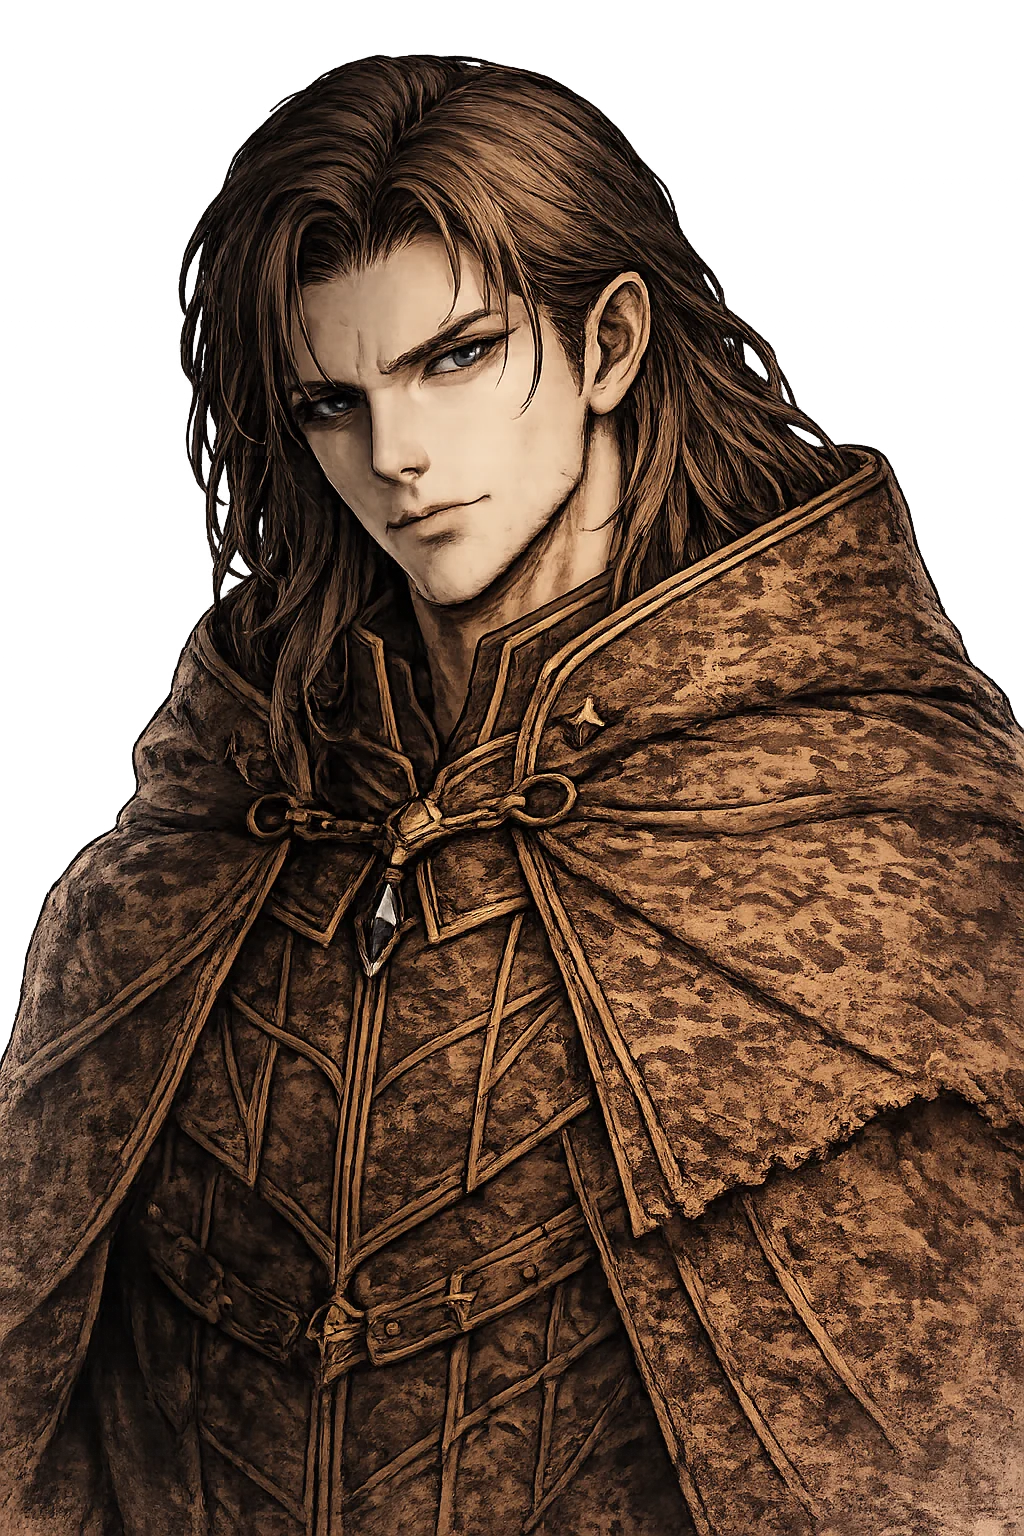
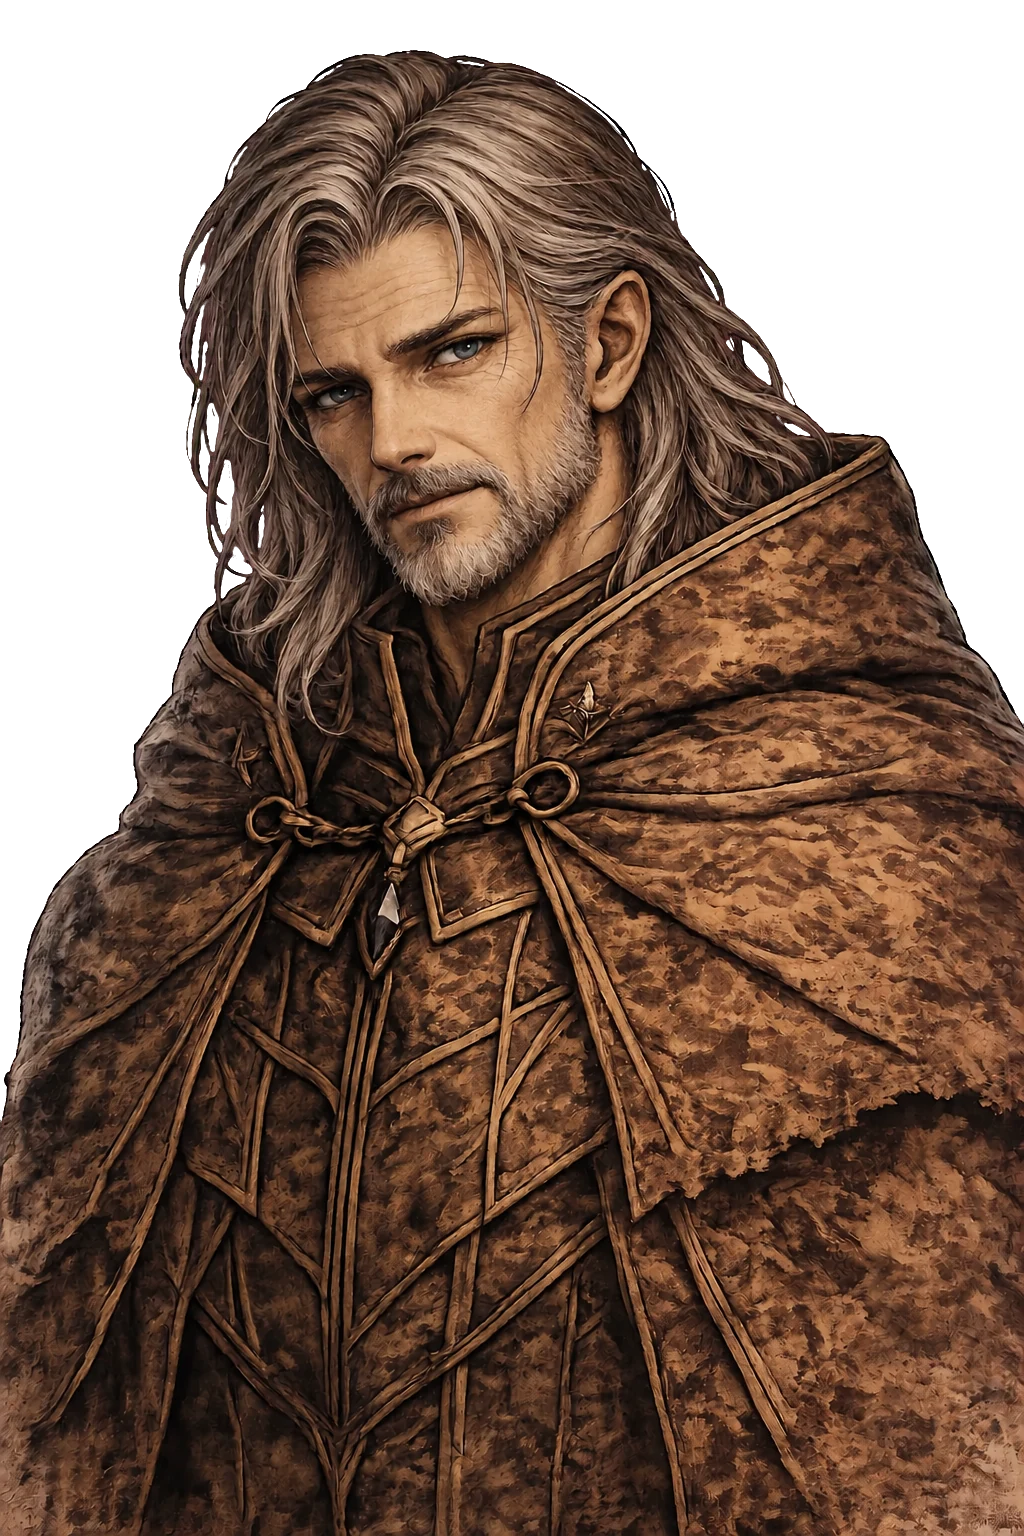
Portraits at their real ages: Archbold, Dawn, Mira
Amar's father and mother read younger than he did, and Lucian's widow
read as her own daughter's sister. King Archbold is now about sixty,
Madame Dawn about fifty, Mira about forty. Each master was aged as the
same person (gen_portrait_art.py "age" jobs), then every one of their
expressions redrawn from the aged master so the sets stay consistent.

diff --git a/src/assets/assetVersions.gen.ts b/src/assets/assetVersions.gen.ts
@@ -50,9 +50,9 @@ export const ASSET_VERSIONS: Record<string, string> = {
   "assets/portraits/amar_warm_half_smile.webp": "fb6d0c0a6a",
   "assets/portraits/amar_wounded.webp": "2b73ca8adc",
   "assets/portraits/archbold.webp": "d71b088f82",
-  "assets/portraits/archbold_neutral.webp": "3c88b994a4",
-  "assets/portraits/archbold_offering_peace.webp": "28c30dc00e",
-  "assets/portraits/archbold_righteous_fury.webp": "1bac2c9d28",
+  "assets/portraits/archbold_neutral.webp": "e90f56d13c",
+  "assets/portraits/archbold_offering_peace.webp": "210c160f81",
+  "assets/portraits/archbold_righteous_fury.webp": "463ca7eaba",
   "assets/portraits/bandit.webp": "c425b47869",
   "assets/portraits/brask.webp": "50e5ca0534",
   "assets/portraits/castor.webp": "22b0da9ffb",
@@ -63,10 +63,10 @@ export const ASSET_VERSIONS: Record<string, string> = {
   "assets/portraits/corin_torn.webp": "e0d72e65e0",
   "assets/portraits/coyne.webp": "6727bef2b2",
   "assets/portraits/crown_archer.webp": "02047372db",
-  "assets/portraits/dawn_charismatic_warm_smile.webp": "cb1ee94010",
-  "assets/portraits/dawn_ideologue_intensity.webp": "1814ede3e5",
-  "assets/portraits/dawn_mask_slipping.webp": "2fe26ea839",
-  "assets/portraits/dawn_measured_neutral.webp": "5ac0695387",
+  "assets/portraits/dawn_charismatic_warm_smile.webp": "dbdc19a6cf",
+  "assets/portraits/dawn_ideologue_intensity.webp": "f0507c468f",
+  "assets/portraits/dawn_mask_slipping.webp": "cf373f0be3",
+  "assets/portraits/dawn_measured_neutral.webp": "d14fab4fab",
   "assets/portraits/fergus.webp": "d97d517f85",
   "assets/portraits/fergus_false_sincerity.webp": "5bb0f5b0b1",
   "assets/portraits/fergus_neutral.webp": "aaad60d8a2",
@@ -106,7 +106,7 @@ export const ASSET_VERSIONS: Record<string, string> = {
   "assets/portraits/maya_soft_genuine_smile.webp": "89c26b0e01",
   "assets/portraits/maya_steel_cold_confession_face.webp": "5f6ebe9e32",
   "assets/portraits/maya_tearful.webp": "697898dbe2",
-  "assets/portraits/mira.webp": "4199f5ef31",
+  "assets/portraits/mira.webp": "9a171694b0",
   "assets/portraits/ndara.webp": "8cc8540344",
   "assets/portraits/ndara_commanding.webp": "237188734c",
   "assets/portraits/ndara_grim.webp": "097e545d54",

diff --git a/scripts/art/gen_portrait_art.py b/scripts/art/gen_portrait_art.py
@@ -1,10 +1,11 @@
 """Generate portraits with Codex: expression fixes, missing expressions,
 and new faces for the named generals.
 
-Two kinds of job:
+Three kinds of job:
   edit  an existing portrait is the reference; the same character is
         redrawn with ONLY the expression changed (keeps a set consistent)
   new   a new character, in the house style of a reference portrait
+  age   an existing portrait redrawn as the same person, older
 
 Every render is on flat magenta (#FF00FF); process_portrait_art.py keys it
 out to the game's transparent 1024x1536 WebP. Raw renders land in
@@ -41,6 +42,12 @@ The character: {desc}
 
 """ + BG
 
+AGE = HEAD + """The attached image is a character portrait from our game. Create ONE new image of the SAME person, older. Keep everything that makes them who they are: the same face structure, the same eyes and eye colour, the same nose and mouth, the same skin tone, the same hair colour and style (now touched with age as described), the same outfit, armour and jewellery, the same painted art style and brushwork, the same warm lighting, and the same camera framing — the same crop, the same head size and position, the same pose and shoulders.
+
+Age them to: {expr}
+
+""" + BG
+
 # file -> (kind, reference, text)
 JOBS = {
     # ---- expression fixes: redrawn from the set's own master ----------------
@@ -71,6 +78,27 @@ JOBS = {
                            "grim resolve — jaw set, brows lowered, eyes hard and determined."),
     "ndari_knowing_smile": ("edit", P + "ndari_regal_neutral.webp",
                             "a knowing half-smile — one corner of the mouth raised, eyes amused, as if he knows something you don't."),
+    # ---- the parents and the widow, at their real ages ----------------------------
+    # Archbold and Dawn are Amar's father and mother; Mira is Lucian's
+    # widow and Tali's mother. Each master is aged first; their other
+    # expressions are then edits of the aged master (the *_aged jobs below
+    # run once the masters are in public/assets/portraits).
+    "archbold_neutral": ("age", P + "archbold_neutral.webp",
+                         "about sixty — a king who has ruled for thirty years: lines at the eyes and across the brow, deeper folds from nose to mouth, slightly hollowed cheeks, a heavier jaw; his long hair kept but heavily greyed, streaked with silver at the temples; a short, neat, grey-shot beard. The same cold, composed, unreadable expression."),
+    "dawn_measured_neutral": ("age", P + "dawn_measured_neutral.webp",
+                              "clearly about fifty — a woman who has led a rebellion for twenty-five years and has a grown son. The age must be obvious at a glance: crow's feet at the eyes, lines across the forehead and between the brows, deeper folds from nose to mouth, a softer jawline and neck, thinner lips; clear streaks of grey and silver through her long auburn hair, heaviest at the temples. Still handsome, sharp and composed — an older woman, not a young one. The same measured, unreadable expression."),
+    "mira": ("age", P + "mira.webp",
+             "clearly about forty — a widow and the mother of a ten-year-old girl. The age must be obvious at a glance: a mature woman's longer, leaner face, crow's feet and fine lines at the eyes and mouth, faint shadows under tired eyes, a few grey strands in her hair, worn in a plain grown woman's braid rather than a girl's. Kind, tired, gently sad — clearly the mother, not a sister."),
+    "archbold_offering_peace": ("edit", P + "archbold_neutral.webp",
+                                "offering peace — the face softened, brows lifted a little, a faint, tired, almost sincere smile; a king holding out his hand."),
+    "archbold_righteous_fury": ("edit", P + "archbold_neutral.webp",
+                                "righteous fury — brows drawn hard down, eyes blazing, mouth open mid-shout, the face of a king defied."),
+    "dawn_charismatic_warm_smile": ("edit", P + "dawn_measured_neutral.webp",
+                                    "a charismatic, warm smile — eyes bright, the smile of a leader winning a room."),
+    "dawn_ideologue_intensity": ("edit", P + "dawn_measured_neutral.webp",
+                                 "ideological intensity — eyes burning with conviction, brows tense, lips parted mid-speech, leaning into the words."),
+    "dawn_mask_slipping": ("edit", P + "dawn_measured_neutral.webp",
+                           "the mask slipping — a mother's grief showing through her composure for one moment: eyes glistening, brows lifting with old sorrow, the mouth trying to hold a polite smile and failing. A dignified, fully clothed older stateswoman; her coat exactly as modest as in the reference."),
     # ---- a face in the house style (was a near-photographic one) ----------------
     "coyne": ("new", P + "fergus_neutral.webp",
               "Quartermaster Coyne, who ran a rebel network's supplies for nine years and sold it out: a man in his late forties with greying dark hair swept back, a short greying beard, tired, clever, watchful eyes, ink stains on his fingers; a worn brown leather coat over a plain linen shirt, a ledger strap across his chest. Expression: guarded and calculating."),
@@ -100,7 +128,7 @@ PATH_RE = re.compile(r"([A-Za-z]:[\\/][^`'\"\n]*?generated_images[\\/][^`'\"\n]*
 
 def run(fid: str, work: str) -> str:
     kind, ref, text = JOBS[fid]
-    prompt = (EDIT if kind == "edit" else NEW).format(expr=text, desc=text)
+    prompt = {"edit": EDIT, "new": NEW, "age": AGE}[kind].format(expr=text, desc=text)
     ref_png = os.path.join(work, "ref", os.path.basename(ref).rsplit(".", 1)[0] + ".png")
     if not os.path.exists(ref_png):
         from PIL import Image

diff --git a/docs/PORTRAITS_TODO.md b/docs/PORTRAITS_TODO.md
@@ -36,6 +36,12 @@ Generated with the Codex pipeline (`gen_portrait_art.py` → review →
   Wired in `PORTRAIT_IDS`, the PortraitId union, their dialogue, and their
   units' `portraitId` (side panel, turn bar).
 
+- **At their real ages:** King Archbold (about sixty) and Madame Dawn
+  (about fifty) — Amar's father and mother read younger than he did —
+  and Mira (about forty, Tali's mother, who read as her sister). Each
+  set aged from its master, then every expression redrawn from the
+  aged master.
+
 Still on the stand-ins (unnamed, a line or two): the Imperial Captain
 (B18), the Holdout Captain (B19 mercy), Captain Halden (B21, no lines).
 
